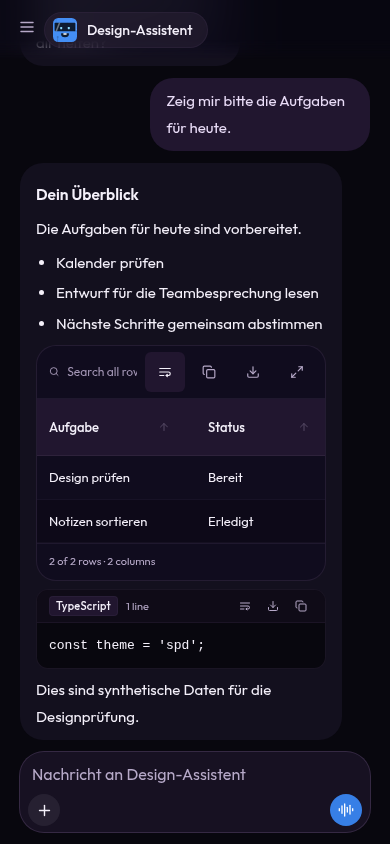
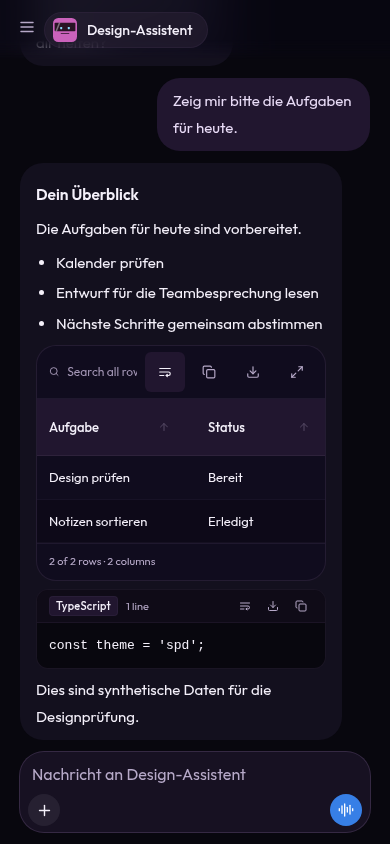
SPD-23 Make SPD the default and first theme

Changed region(s): [[0.3692, 0.0924, 0.8923, 0.1848], [0.1231, 0.0, 0.2154, 0.0616]]

diff --git a/src/lib/skins.default.test.ts b/src/lib/skins.default.test.ts
@@ -27,31 +27,34 @@ beforeEach(() => {
 afterEach(() => { vi.unstubAllGlobals(); });
 
 describe("default skin", () => {
-  it("opens a fresh install in Meadow, in Simple mode, and keeps it on the next launch", async () => {
-    expect(await boot()).toEqual({ skin: "meadow", advanced: false, stored: "meadow" });
+  it("opens a fresh install in SPD, in Simple mode, and keeps it on the next launch", async () => {
+    expect(await boot()).toEqual({ skin: "spd", advanced: false, stored: "spd" });
     values.set("omb-installed", "2026-10-17T00:00:00.000Z");
-    expect(await boot()).toEqual({ skin: "meadow", advanced: false, stored: "meadow" });
+    expect(await boot()).toEqual({ skin: "spd", advanced: false, stored: "spd" });
   });
 
-  it("keeps an install that ran before in Midnight when nobody picked a skin", async () => {
-    values.set("omb-skin", "midnight");
-    expect(await boot()).toMatchObject({ skin: "midnight", stored: "midnight" });
-  });
-
-  it("keeps Midnight for an earlier install whose saved skin is missing or no longer exists", async () => {
+  it.each([null, "", "retired-skin"])("uses SPD for an earlier install whose saved skin is %s", async (saved) => {
     values.set("omb-installed", "2026-01-01T00:00:00.000Z");
-    expect(await boot()).toEqual({ skin: "midnight", advanced: true, stored: "midnight" });
-    values.set("omb-skin", "retired-skin");
-    expect(await boot()).toMatchObject({ skin: "midnight", stored: "midnight" });
+    if (saved !== null) values.set("omb-skin", saved);
+    expect(await boot()).toEqual({ skin: "spd", advanced: true, stored: "spd" });
+    expect(await boot()).toEqual({ skin: "spd", advanced: true, stored: "spd" });
   });
 
-  it("always honours a skin someone chose", async () => {
-    values.set("omb-skin", "lagoon");
-    expect(await boot()).toMatchObject({ skin: "lagoon" });
-    values.clear();
-    values.set("omb-skin", "midnight");
+  it.each(SKIN_IDS)("preserves the saved %s choice on every launch", async (id) => {
+    values.set("omb-skin", id);
     values.set("omb-advanced-mode", "0");
-    expect(await boot()).toMatchObject({ skin: "midnight", advanced: false });
+    expect(await boot()).toEqual({ skin: id, stored: id, advanced: false });
+    expect(await boot()).toEqual({ skin: id, stored: id, advanced: false });
+  });
+
+  it("uses SPD when storage is unavailable or cannot be read", async () => {
+    const { readSkin } = await import("./skins");
+    vi.stubGlobal("localStorage", undefined);
+    expect(readSkin()).toBe("spd");
+    vi.stubGlobal("localStorage", { getItem: () => { throw new Error("storage blocked"); } });
+    expect(readSkin()).toBe("spd");
+    Object.defineProperty(globalThis, "localStorage", { configurable: true, get: () => { throw new Error("storage getter blocked"); } });
+    expect(readSkin()).toBe("spd");
   });
 
   it.each(SKIN_IDS)("switches from %s to SPD and back across launches without changing preferences", async (id) => {
@@ -99,11 +102,13 @@ describe("default skin", () => {
     expect(markup).toContain("Dunkle Pflaume, sanftes Lavendel. SPD Studio.");
   });
 
-  it("shows Meadow as the selected skin in Appearance on a fresh install", async () => {
+  it("shows SPD first and selected in Appearance on a fresh install", async () => {
     await boot();
     const { SkinPicker } = await import("@/components/SkinPicker");
     const markup = renderToStaticMarkup(createElement(SkinPicker));
     const pressed = [...markup.matchAll(/aria-pressed="true"[\s\S]*?<div class="text-\[13px\] font-medium text-ink">([^<]+)</g)].map(([, name]) => name);
-    expect(pressed).toEqual(["Meadow"]);
+    expect(pressed).toEqual(["SPD"]);
+    const choices = [...markup.matchAll(/<div class="text-\[13px\] font-medium text-ink">([^<]+)</g)].map(([, name]) => name);
+    expect(choices).toEqual(["SPD", "Midnight", "Atelier", "Foundry", "Lagoon", "Graphite", "Linen", "Dusk", "Daylight", "Meadow"]);
   });
 });

diff --git a/src/lib/skins.test.ts b/src/lib/skins.test.ts
@@ -2,7 +2,7 @@ import { readFileSync } from "node:fs";
 import { fileURLToPath } from "node:url";
 import { dirname, join } from "node:path";
 import { describe, expect, it } from "vitest";
-import { SKINS, SKIN_IDS, DEFAULT_SKIN, PRIOR_INSTALL_SKIN } from "./skins";
+import { SKINS, SKIN_IDS, DEFAULT_SKIN } from "./skins";
 
 const css = readFileSync(
   join(dirname(fileURLToPath(import.meta.url)), "../styles.css"),
@@ -27,7 +27,7 @@ describe("skins", () => {
       const body = css.match(new RegExp(`\\[data-skin="${id}"\\]\\s*\\{([^}]*)\\}`))?.[1] ?? "";
       return new Set([...body.matchAll(/(--[\w-]+)\s*:/g)].map(([, name]) => name));
     };
-    const reference = tokensOf(PRIOR_INSTALL_SKIN);
+    const reference = tokensOf("midnight");
     expect(reference.size).toBeGreaterThan(15);
     expect(reference).toContain("--color-composer-ring");
     for (const id of SKIN_IDS) {
@@ -44,21 +44,12 @@ describe("skins", () => {
     expect(css).toMatch(/\.chat-md \.shiki\s*\{\s*color-scheme:\s*var\(--code-color-scheme\);\s*\}/);
   });
 
-  it("adds Meadow without moving or replacing the original eight", () => {
-    expect(SKIN_IDS).toContain("meadow");
-    expect(SKIN_IDS.slice(0, 8)).toEqual([
-      "midnight", "atelier", "foundry", "lagoon", "graphite", "linen", "dusk", "daylight",
-    ]);
-    expect(DEFAULT_SKIN).toBe("meadow");
-    expect(PRIOR_INSTALL_SKIN).toBe("midnight");
-  });
-
-  it("appends SPD while preserving every existing choice and default", () => {
+  it("puts the SPD default first while preserving the other choices and their relative order", () => {
     expect(SKIN_IDS).toEqual([
-      "midnight", "atelier", "foundry", "lagoon", "graphite", "linen", "dusk", "daylight", "meadow", "spd",
+      "spd", "midnight", "atelier", "foundry", "lagoon", "graphite", "linen", "dusk", "daylight", "meadow",
     ]);
-    expect(DEFAULT_SKIN).toBe("meadow");
-    expect(PRIOR_INSTALL_SKIN).toBe("midnight");
+    expect(SKINS.map((skin) => skin.id)).toEqual(SKIN_IDS);
+    expect(DEFAULT_SKIN).toBe("spd");
   });
 
   it("gives Meadow's dark bubble its own inverted context", () => {

diff --git a/src/lib/skins.ts b/src/lib/skins.ts
@@ -1,7 +1,7 @@
-import { hasPriorRun } from "./prior-run";
 import type { LocaleKey } from "@/locales";
 
 export const SKIN_IDS = [
+  "spd",
   "midnight",
   "atelier",
   "foundry",
@@ -11,7 +11,6 @@ export const SKIN_IDS = [
   "dusk",
   "daylight",
   "meadow",
-  "spd",
 ] as const;
 export type SkinId = (typeof SKIN_IDS)[number];
 
@@ -23,6 +22,7 @@ export type Skin = {
 };
 
 export const SKINS: readonly Skin[] = [
+  { id: "spd", name: "SPD", tagline: "Deep plum, soft lavender. SPD Studio.", taglineKey: "settings.skin.spd.tagline" },
   { id: "midnight", name: "Midnight", tagline: "The original. Cool and dark." },
   { id: "atelier", name: "Atelier", tagline: "Daylight on paper, warm and quiet." },
   { id: "foundry", name: "Foundry", tagline: "Night shift. Dark, warm, lit in brass." },
@@ -32,11 +32,9 @@ export const SKINS: readonly Skin[] = [
   { id: "dusk", name: "Dusk", tagline: "Muted plum after dark, calm and low-key." },
   { id: "daylight", name: "Daylight", tagline: "Midnight in reverse. Near-white, ink-black bubbles." },
   { id: "meadow", name: "Meadow", tagline: "Fresh white with a calm green. The MausBot look." },
-  { id: "spd", name: "SPD", tagline: "Deep plum, soft lavender. SPD Studio.", taglineKey: "settings.skin.spd.tagline" },
 ];
 
-export const DEFAULT_SKIN: SkinId = "meadow";
-export const PRIOR_INSTALL_SKIN: SkinId = "midnight";
+export const DEFAULT_SKIN: SkinId = "spd";
 
 const KEY = "omb-skin";
 
@@ -58,10 +56,9 @@ export function readSkin(): SkinId {
     const store = getStore();
     const stored = store?.getItem(KEY);
     if (isSkinId(stored)) return stored;
-    return hasPriorRun(store) ? PRIOR_INSTALL_SKIN : DEFAULT_SKIN;
   } catch {
-    return PRIOR_INSTALL_SKIN;
   }
+  return DEFAULT_SKIN;
 }
 
 export function applySkin(id: SkinId): void {

diff --git a/docs/verification/spd-theme.md b/docs/verification/spd-theme.md
@@ -1,9 +1,11 @@
 # SPD theme
 
-SPD is an additional choice in Settings → Appearance → Skin. Existing choices
-and storage keys are unchanged: fresh installations still use Meadow, prior
-installations without a valid saved choice still use Midnight, and explicit
-font, chat width, interface mode and message-color preferences take precedence.
+SPD is the first choice in Settings → Appearance → Skin and the default when
+there is no valid saved theme, on both fresh and prior installations. Every
+valid saved theme still takes precedence; all previous themes remain available
+in their relative order. Storage keys and explicit font, chat width, interface
+mode and message-color preferences are unchanged. The native desktop window
+also starts with SPD's background until the renderer synchronizes its selection.
 
 ## Design source
 
@@ -109,3 +111,28 @@ pnpm exec vitest run "${spd_css_tests[@]}" src/lib/skins.default.test.ts \
   src/components/SettingsModal.simple.test.ts
 pnpm check:contrast
 ```
+
+## SPD default and picker order — 2026-10-19
+
+SPD now starts first in the picker and is used whenever the saved theme is
+missing, invalid or unreadable. The prior-install fallback was removed; a valid
+saved choice, including Meadow or Midnight, is still restored unchanged.
+Simple/Advanced mode, custom fonts and other preferences keep their existing
+behavior. The main desktop window starts with the same SPD background before
+the renderer reports the selected theme.
+
+- 217 targeted tests passed across defaults/persistence, skin registration,
+  interface mode, glass surfaces, identity colors, native skin mapping and
+  Appearance/Simple settings. Coverage includes two launches with each of the
+  ten saved themes, fresh and prior installations without a usable choice,
+  blocked storage and the rendered picker order.
+- 10 additional documentation and window-chrome tests passed.
+- The browser fixture passed all 11 checks, including SPD's default and first
+  position, a saved Meadow selection surviving reload, all ten theme switches,
+  preserved font/preferences and the Windows renderer bridge. Seven screenshots
+  were refreshed; desktop and mobile picker views were visually inspected.
+- `pnpm check:electron` syntax-checked all 203 modules. Native Windows execution
+  remains outside this environment; the renderer test uses a stubbed bridge.
+- `pnpm lint`, `pnpm typecheck`, `pnpm i18n:check`, `pnpm exec vite build`
+  and `git diff --check` passed. The build retains the existing `::highlight`
+  and chunk-size warnings.

diff --git a/docs/verification/evidence/spd-theme/README.md b/docs/verification/evidence/spd-theme/README.md
@@ -12,7 +12,8 @@ See [reproduction and limits](../../spd-theme.md) and [machine-readable results]
 - [Touch chat](chat-mobile.png)
 - [Touch theme picker](appearance-mobile.png)
 
-The checks exercise all ten themes, persistence after real page reloads, custom
+The checks exercise SPD as the default and first picker option, all ten themes,
+preservation of an explicitly saved non-default theme after reload, custom
 font preservation, Outfit loading, message-color preferences, narrow layouts,
 and the Windows renderer bridge. No page errors or external requests occurred.
 Native Windows itself was not available for testing.
